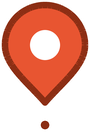
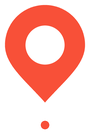
Pinos novos do mapa: lisos, furo maior e cores mais vivas
Desenhados pelo Simão (desenho/imagens/novo pino teal.jpeg e novo pino
coral.jpeg, fora do repositório). Medidos e redesenhados em código, para
a forma continuar a viver num sítio só.

- Cores: origem #006870, destino #F85038, e a paragem passa a #FF8064,
  o coral claro derivado do novo destino.
- Sai o contorno escuro: os pinos passam a ser de uma cor só.
- O furo branco cresce de 6 para 7,8 (o raio da cabeça é 16), quase
  metade, como nos ficheiros dele.
- Fica um halo branco, mais fino (2,4 em vez de 5,6). Não se vê no
  desenho, onde o fundo é branco, mas no mapa é o que impede um pino de
  desaparecer sobre um telhado escuro.
- O ponto por baixo, que marca o sítio exacto, leva agora a cor do pino
  no miolo, que era a do contorno quando ele existia.
- As bordas dos cartões de nome seguem as cores novas.

A forma (o caminho da gota) não muda, e as imagens continuam a 30x45 em
três densidades. Mudam o script que as gera e o <Pino> do MapaGoogle, a
par, como manda o comentário deles.

Changed region(s): [[0.0, 0.0, 1.0, 0.8], [0.2667, 0.1778, 0.7333, 0.5037], [0.4444, 0.8889, 0.5556, 0.9778]]

diff --git a/mobile/src/components/MapaGoogle.js b/mobile/src/components/MapaGoogle.js
@@ -35,14 +35,21 @@ const DILI = { lat: -8.5569, lng: 125.5603 };
 // camada que traduza um no outro. Se um dia a forma mudar, mudam-se os
 // dois — e este comentário está aqui para que ninguém se esqueça do outro.
 const GOTA = 'M2 18 A16 16 0 1 1 34 18 C34 26 26 32 18 41 C10 32 2 26 2 18 Z';
+// AS CORES DOS PINOS NOVOS (16/09/2026), medidas dos ficheiros que o Simão
+// desenhou: mais vivas do que as da paleta, e sem contorno escuro — os pinos
+// passam a ser lisos, com um furo branco maior. Os mesmos valores estão em
+// scripts/desenhar-pinos.py, que gera as imagens a partir deste caminho.
 const COR = {
-  origem: { fill: '#0E5C54', risco: '#08403A' },
-  destino: { fill: '#E85531', risco: '#8C2E14' },
+  origem: { fill: '#006870' },
+  destino: { fill: '#F85038' },
   // Coral mais claro do que o destino final: uma paragem é uma entrega —
-  // só não é a última. Os mesmos valores estão em scripts/desenhar-pinos.py,
-  // que gera a imagem a partir deste mesmo caminho SVG.
-  paragem: { fill: '#F0855D', risco: '#9C4A28' },
+  // só não é a última.
+  paragem: { fill: '#FF8064' },
 };
+
+// O FURO BRANCO no meio da cabeça: 7,8 de um raio de 16, quase metade, como
+// nos ficheiros novos. Era 6.
+const FURO = 7.8;
 
 // O pino tem 30x45 no ecrã. O ponto que marca o sítio está em y=50 de 54 no
 // sistema do desenho, o que dá 42 dos 45 — é essa fracção que diz ao mapa
@@ -119,11 +126,14 @@ function Pino({ tipo: qual }) {
     // faz parecer que a actualização não chegou.
     <View style={{ width: PINO_L, height: PINO_A }} collapsable={false}>
       <Svg width={PINO_L} height={PINO_A} viewBox="0 0 36 54">
-        <Path d={GOTA} fill="none" stroke="#FFF" strokeWidth={5.6} strokeLinejoin="round" />
-        <Path d={GOTA} fill={c.fill} stroke={c.risco} strokeWidth={2.6} strokeLinejoin="round" />
-        <Bola cx={18} cy={18} r={6} fill="#FFF" />
+        {/* O halo branco fino fica: no desenho do Simão o fundo é branco e
+            não se vê, mas no mapa é ele que impede o pino de desaparecer
+            sobre um telhado escuro. O contorno escuro saiu. */}
+        <Path d={GOTA} fill="none" stroke="#FFF" strokeWidth={2.4} strokeLinejoin="round" />
+        <Path d={GOTA} fill={c.fill} strokeLinejoin="round" />
+        <Bola cx={18} cy={18} r={FURO} fill="#FFF" />
         <Bola cx={18} cy={50} r={2.4} fill="#FFF" />
-        <Bola cx={18} cy={50} r={1.7} fill={c.risco} />
+        <Bola cx={18} cy={50} r={1.7} fill={c.fill} />
       </Svg>
     </View>
   );
@@ -1340,11 +1350,11 @@ const criarEstilos = () =>
     },
     // Um risco da cor à esquerda, para se saber qual é a recolha e qual é o
     // destino sem ter de olhar para o pino.
-    risco_origem: { borderLeftColor: '#0E5C54' },
-    risco_destino: { borderLeftColor: '#E85531' },
+    risco_origem: { borderLeftColor: '#006870' },
+    risco_destino: { borderLeftColor: '#F85038' },
     // Sem esta linha, `styles['risco_paragem']` era `undefined` e o cartão
     // saía sem risco — nada rebentava, e a paragem ficava sem cor.
-    risco_paragem: { borderLeftColor: '#F0855D' },
+    risco_paragem: { borderLeftColor: '#FF8064' },
     cartaoAgora: { backgroundColor: '#14201D', borderLeftColor: '#FF6B4A' },
     cartaoNome: { fontSize: 12.5, fontWeight: '700', color: '#14201D', letterSpacing: -0.1 },
     cartaoNomeAgora: { color: '#EAF2EF' },

diff --git a/mobile/scripts/desenhar-pinos.py b/mobile/scripts/desenhar-pinos.py
@@ -33,17 +33,26 @@ TAMANHO = (30, 45)
 # contorno suave sem depender de uma biblioteca de desenho vectorial.
 S = 30
 
+# AS CORES DOS PINOS NOVOS (16/09/2026), medidas dos ficheiros que o Simão
+# desenhou (desenho/imagens/novo pino {teal,coral}.jpeg): mais vivas do que as
+# da paleta, e sem o contorno escuro que a versão anterior tinha. Os pinos
+# passam a ser lisos, como no desenho dele, e o furo branco é maior.
 COR = {
-    'origem': ('#0E5C54', '#08403A'),
-    'destino': ('#E85531', '#8C2E14'),
+    'origem': '#006870',
+    'destino': '#F85038',
     # A PARAGEM É CORAL MAIS CLARO, e não uma terceira cor.
     #
     # A paleta é teal e coral, por decisao do Simao, e inventar um terceiro
     # tom para isto seria contraria-la. Um coral claro diz o que e preciso
     # dizer: isto e uma entrega — mas nao a ultima. O escuro do contorno
     # mantem-se proximo do destino final, para as duas se lerem como familia.
-    'paragem': ('#F0855D', '#9C4A28'),
+    'paragem': '#FF8064',
 }
+
+# O FURO BRANCO, em unidades da caixa: 7,8 de um raio de cabeça de 16 — quase
+# metade, como nos ficheiros novos. Antes eram 6. É o furo que dá a forma
+# quando a cor do pino se encontra com uma parecida no mapa.
+FURO = 7.8
 
 
 def caminho():
@@ -130,30 +139,30 @@ def desenhar_ponto_alternativo():
     return img
 
 
-def desenhar(fill, risco):
+def desenhar(fill):
     img = Image.new('RGBA', (CAIXA[0] * S, CAIXA[1] * S), (0, 0, 0, 0))
     d = ImageDraw.Draw(img)
     pts = [(x * S, y * S) for x, y in caminho()]
     fechado = pts + [pts[0]]
 
     # A ordem importa e é a mesma do SVG:
-    # 1. o halo branco por fora, traço largo centrado no caminho;
-    # 2. o corpo, que tapa a metade de dentro do halo;
-    # 3. o contorno escuro, mais estreito, por cima da borda do corpo.
+    # 1. o halo branco por fora, traço fino centrado no caminho;
+    # 2. o corpo, liso, que tapa a metade de dentro do halo.
     #
-    # O halo custa dois pixéis e é o que faz o pino ler-se sobre um telhado
-    # escuro do mapa. Fica um pouco cortado no bordo — o caminho começa em
-    # x=2 e o halo pede 2.8 — exactamente como já ficava no Leaflet.
-    d.line(fechado, fill='#FFFFFF', width=int(5.6 * S), joint='curve')
+    # O CONTORNO ESCURO SAIU (16/09/2026): os pinos que o Simão desenhou são
+    # de uma cor só. O halo branco fica, mais fino do que era: não está no
+    # desenho dele porque ali o fundo é branco, mas no mapa é o que impede um
+    # pino de desaparecer sobre um telhado escuro.
+    d.line(fechado, fill='#FFFFFF', width=int(2.4 * S), joint='curve')
     d.polygon(pts, fill=fill)
-    d.line(fechado, fill=risco, width=int(2.6 * S), joint='curve')
 
     # O furo branco: é ele que dá a forma quando a cor se confunde com o
     # que está por baixo.
-    d.ellipse([(18 - 6) * S, (18 - 6) * S, (18 + 6) * S, (18 + 6) * S], fill='#FFFFFF')
-    # O ponto por baixo marca o sítio exacto; o pino flutua sobre ele.
+    d.ellipse([(18 - FURO) * S, (18 - FURO) * S, (18 + FURO) * S, (18 + FURO) * S], fill='#FFFFFF')
+    # O ponto por baixo marca o sítio exacto; o pino flutua sobre ele. O miolo
+    # leva a cor do pino, que era a do contorno quando ele existia.
     d.ellipse([(18 - 2.4) * S, (50 - 2.4) * S, (18 + 2.4) * S, (50 + 2.4) * S], fill='#FFFFFF')
-    d.ellipse([(18 - 1.7) * S, (50 - 1.7) * S, (18 + 1.7) * S, (50 + 1.7) * S], fill=risco)
+    d.ellipse([(18 - 1.7) * S, (50 - 1.7) * S, (18 + 1.7) * S, (50 + 1.7) * S], fill=fill)
     return img
 
 
@@ -203,8 +212,8 @@ def main():
     pasta = os.path.join(aqui, '..', 'assets', 'mapa')
     os.makedirs(pasta, exist_ok=True)
 
-    for nome, (fill, risco) in COR.items():
-        img = desenhar(fill, risco)
+    for nome, fill in COR.items():
+        img = desenhar(fill)
         for sufixo, escala in (('', 1), ('@2x', 2), ('@3x', 3)):
             alvo = img.resize((TAMANHO[0] * escala, TAMANHO[1] * escala), Image.LANCZOS)
             caminho_ficheiro = os.path.join(pasta, f'pino-{nome}{sufixo}.png')
